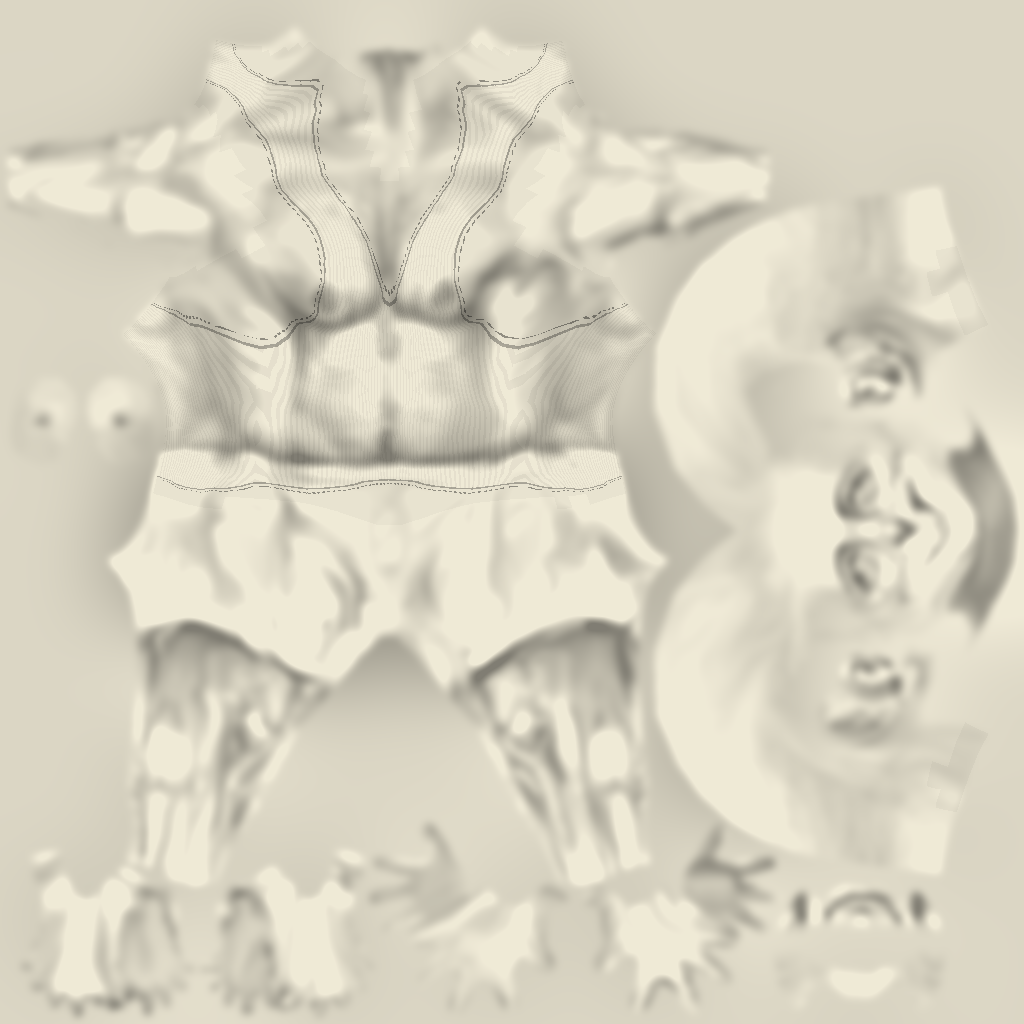
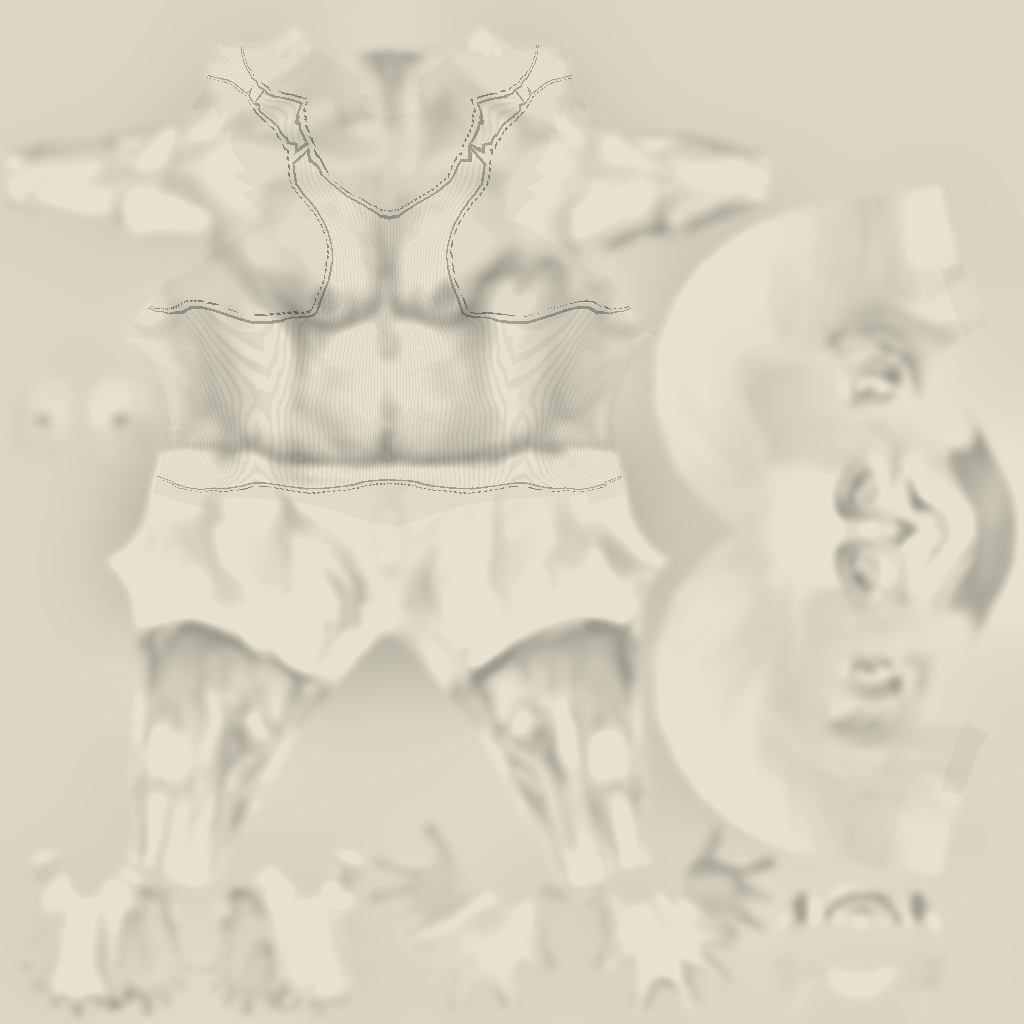
Gulp: figed: the brother's shirt looser, with narrower straps and a higher neck
Claude-Session: https://claude.ai/code/session_018hhQTWAB4pnnkWVR2X6n6A

diff --git a/tools/figed/garments.py b/tools/figed/garments.py
@@ -55,14 +55,17 @@ def rules(fig, P, H, skin_px=None):
     # the vest: scoop neck (deeper in front), armholes, tucked into the trousers
     # (an A-shirt, the user: "more a frame shirt type": narrow straps, a deep scoop to the top of the chest, big
     # armholes cut in beside the pecs)
-    depth = np.where(y < yn, 0.2, 0.11)
-    neck = (x / 0.082) ** 2 + ((z - (zn + 0.03)) / depth) ** 2 - 1
-    hole = ((np.abs(x) - (sx + 0.045)) / 0.095) ** 2 + ((z - (zs - 0.01)) / 0.175) ** 2 - 1
+    # (then: "Its a little to skin tight, the straps are too wide, and neck too deel": a wider, shallower neck and
+    # armholes wider at the shoulder but ending higher, so the straps are narrow and the nipples stay covered)
+    depth = np.where(y < yn, 0.135, 0.09)
+    neck = (x / 0.098) ** 2 + ((z - (zn + 0.03)) / depth) ** 2 - 1
+    hole = ((np.abs(x) - (sx + 0.045)) / 0.112) ** 2 + ((z - (zs + 0.02)) / 0.16) ** 2 - 1
     nip = figed_fit.mark_vertices(base)["nipple_l"]       # the armhole must clear the nipple (the user: "It needs to
     print("vest: armhole rule at the nipple %.2f (covered when well over 0)" % hole[nip])   # cover up his nips")
     torso = (arm < 0.3) & (up < 0.75) & (head < 0.3) & (z > waist - 0.1) & (_w(base, ("thigh", "calf")) < 0.3)
     f = np.minimum(np.minimum(neck, hole) * 0.05, np.minimum(z - (waist - 0.06), zn + 0.06 - z))
-    out["tank"] = (f, torso, np.full(len(P), 0.004), (0.88, 0.86, 0.80))
+    loose = 0.004 + 0.007 * np.clip((z - (waist + 0.01)) / 0.06, 0, 1)   # loose on the chest, tucked flat at the waist
+    out["tank"] = (f, torso, loose, (0.88, 0.86, 0.80))                 # (11 mm all the way down came through the waistband)
     if skin_px is not None:                              # the drawers: where the skin picture is painted as cloth
         cloth = skin_px & lower
         if cloth.sum() > 50:
@@ -327,7 +330,7 @@ def paint(fig, outfit, name, R, P, path, skin_path=None):
                 a = (c[:, 2 * r:] - c[:, :-2 * r]) / (2.0 * r)
             return a
 
-        form = np.clip(blur(lum, 4) / np.maximum(blur(lum, 45), 1e-3), 0.7, 1.06) ** 1.5
+        form = np.clip(blur(lum, 4) / np.maximum(blur(lum, 45), 1e-3), 0.7, 1.06) ** 0.9
         rib = 1.0 - 0.045 * (np.sin(across * 2 * np.pi / 0.006) > 0.3)
         base_col = np.array(outfit[name].get("colour", [0.90, 0.88, 0.82]))
         tex = np.clip(base_col * (form * rib)[:, :, None], 0, 1)

diff --git a/tools/figed/README.md b/tools/figed/README.md
@@ -749,3 +749,9 @@ cuffs and braces hanging at the hips: `tools/art_src/concept_brother_bible_outfi
   The painted ones are taken out of the trousers' picture: the outfit file's `paint_out` boxes, inside which only
   pixels of the cloth's usual brightness and warmth are kept and the rest filled from the cloth round them.
   Traces of the painted straps still show near the waistband (the buckles' shadows).
+- The user: "Its a little to skin tight, the straps are too wide, and neck too deel". The shirt: neck wider and
+  shallower (half-width 0.098, depth 0.135 front, 0.09 back); armholes wider at the shoulder and ending higher
+  (0.112 x 0.16, centred 2 cm above the shoulder joint), so the straps are narrow and the nipple is still covered
+  (rule value 0.64); looser, 11 mm off the body on the chest, tapering to 4 mm at the waist (11 mm all the way down
+  came through the trousers' waistband); the body-shading on it softened (power 0.9). Claude read "the straps" as
+  the shirt's shoulder straps, not the braces.
